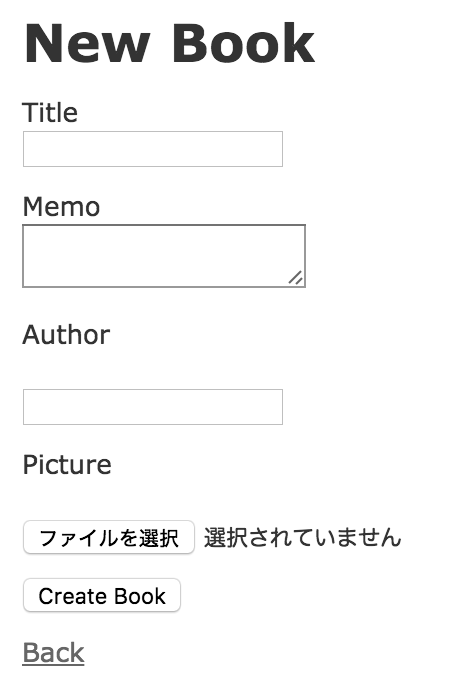
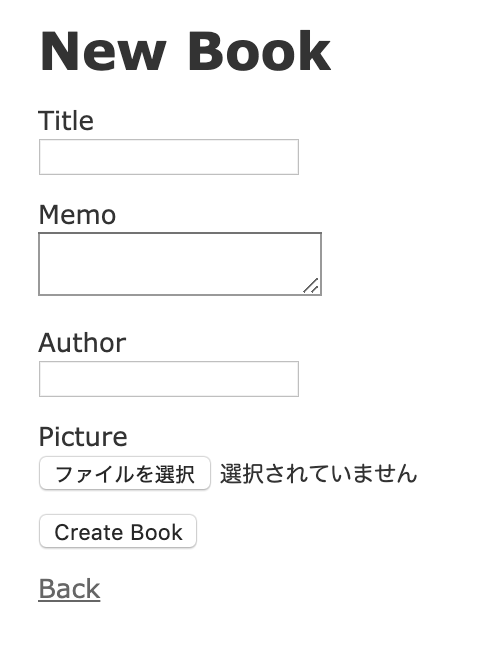
Update picture upload

diff --git a/_posts/2016-01-12-picture-upload.md b/_posts/2016-01-12-picture-upload.md
@@ -14,11 +14,11 @@ categories:
 
 アプリに画像アップロード機能を追加します。画像情報を格納するためのDBカラムを追加し、carrierwave gemを利用して画像アップロード機能を実装します。
 
-この章では「CRUDの基礎とindexアクション」で作ったbooks_appを引き続き題材に使っていきます（モデルの章の後半で行ったbooksテーブルにauthorカラムを追加したあとの状態を想定していますが、authorカラムの追加作業は行わなくてもこの章の内容は実行可能です。）。
+この章では「CRUDの基礎とindexアクション」で作ったbooks_appを引き続き題材に使っていきます。モデルの章の後半で行ったbooksテーブルにauthorカラムを追加した後の状態を想定していますが、authorカラムの追加作業は行わなくてもこの章の内容は実行可能です。
 
 ## 画像情報を格納するためのDBカラムを追加
 
-最初に、既存のbooksテーブルにstring型のpictureカラムを増やします。モデルの章でやったように、前に作ったmigrationファイルを編集するのではなく、新しいmigrationファイルを作ります。rails g migrationコマンドを実行し、migrationファイルを作成します。rails g migrationコマンドの基本形は以下になります。
+最初に、既存のbooksテーブルにstring型のpictureカラムを増やします。モデルの章でやったように、前に作ったmigrationファイルを編集するのではなく、新しいmigrationファイルを作ります。rails g migrationコマンドを実行し、migrationファイルを作成します。rails g migrationコマンドの基本形を再掲します。
 
 ```bash
 rails g migration Addカラム名Toテーブル名 カラム名:型名
@@ -32,19 +32,19 @@ rails g migration AddPictureToBooks picture:string
 
 ```console
 $ rails g migration AddPictureToBooks picture:string
-Running via Spring preloader in process 6111
+Running via Spring preloader in process 3249
       invoke  active_record
-      create    db/migrate/20161030225951_add_picture_to_books.rb
+      create    db/migrate/20191020225655_add_picture_to_books.rb
 ```
 
 作成されたmigrationファイルは以下のようになっています。
 
 ```
-20161030225951_add_picture_to_books.rb
+db/migrate/20191020225655_add_picture_to_books.rb
 ```
 
 ```ruby
-class AddPictureToBooks < ActiveRecord::Migration[5.1]
+class AddPictureToBooks < ActiveRecord::Migration[6.0]
   def change
     add_column :books, :picture, :string
   end
@@ -57,10 +57,10 @@ migrationファイルを作成したら、`rails db:migrate`コマンドでDBへ
 
 ```console
 $ rails db:migrate
-== 20161030225951 AddPictureToBooks: migrating ================================
+== 20191020225655 AddPictureToBooks: migrating ================================
 -- add_column(:books, :picture, :string)
-   -> 0.0055s
-== 20161030225951 AddPictureToBooks: migrated (0.0056s) =======================
+   -> 0.0027s
+== 20191020225655 AddPictureToBooks: migrated (0.0028s) =======================
 ```
 
 ## carrierwave gemを追加
@@ -79,19 +79,16 @@ bundle
 
 ```console
 $ bundle
-Fetching gem metadata from https://rubygems.org/...........
-Fetching version metadata from https://rubygems.org/...
-Fetching dependency metadata from https://rubygems.org/..
-Resolving dependencies...
+Using rake 13.0.0
 ...
-Installing carrierwave 1.0.0
-Bundle complete! 17 Gemfile dependencies, 67 gems now installed.
-Use `bundle show [gemname]` to see where a bundled gem is installed.
+Installing carrierwave 1.3.1
+Bundle complete! 19 Gemfile dependencies, 79 gems now installed.
+Use `bundle info [gemname]` to see where a bundled gem is installed.
 ```
 
-bundleコマンドを実行するとGemfileに書かれたgemを存在しなければインストールし、利用可能にします。また、Gemfile.lockに利用するバージョンが書き込まれます。
+bundleコマンドを実行すると、Gemfileに書かれたgemがまだなければインストールし利用可能にします。また、Gemfile.lockに利用するバージョンが書き込まれます。
 
-続いて、carrierwaveを利用可能にするために、carrierwaveが提供する以下のコマンドを実行して必要なファイルを作成します。`bin/spring stop`コマンドはspringというキャッシュの仕組みを再起動します（このコマンドは環境によって実行不要な場合がほとんどですが、確実に成功するように実行しています）。`rails g uploader Picture`コマンドはcarrierwaveを利用するのに必要なファイルを生成します。
+続いて、carrierwaveを利用可能にするために、carrierwaveが提供する`rails g uploader Picture`コマンドを実行して必要なファイルを作成します。その前に、`bin/spring stop`コマンドを実行し、springというキャッシュの仕組みを再起動ておきます。このコマンドは環境によって実行不要な場合もありますが、確実に成功するように実行しています。
 
 ```bash
 $ bin/spring stop
@@ -103,7 +100,7 @@ $ bin/spring stop
 Spring stopped.
 
 $ rails g uploader Picture
-Running via Spring preloader in process 47336
+Running via Spring preloader in process 4097
       create  app/uploaders/picture_uploader.rb
 ```
 
@@ -147,22 +144,22 @@ end
 ...
   <div class="field">
     <%= form.label :title %>
-    <%= form.text_field :title, id: :book_title %>
+    <%= form.text_field :title %>
   </div>
 
   <div class="field">
     <%= form.label :memo %>
-    <%= form.text_area :memo, id: :book_memo %>
+    <%= form.text_area :memo %>
   </div>
 
   <div class="field">
     <%= form.label :author %>
-    <%= form.text_field :author, id: :book_author %>
+    <%= form.text_field :author %>
   </div>
 
 +  <div class="field">
 +    <%= form.label :picture %>
-+    <%= form.file_field :picture, id: :book_picture %>
++    <%= form.file_field :picture %>
 +  </div>
 
   <div class="actions">
@@ -171,7 +168,7 @@ end
 <% end %>
 ```
 
-詳細表示画面を修正します。
+次に詳細表示画面を修正します。
 
 `app/views/books/show.html.erb`
 
